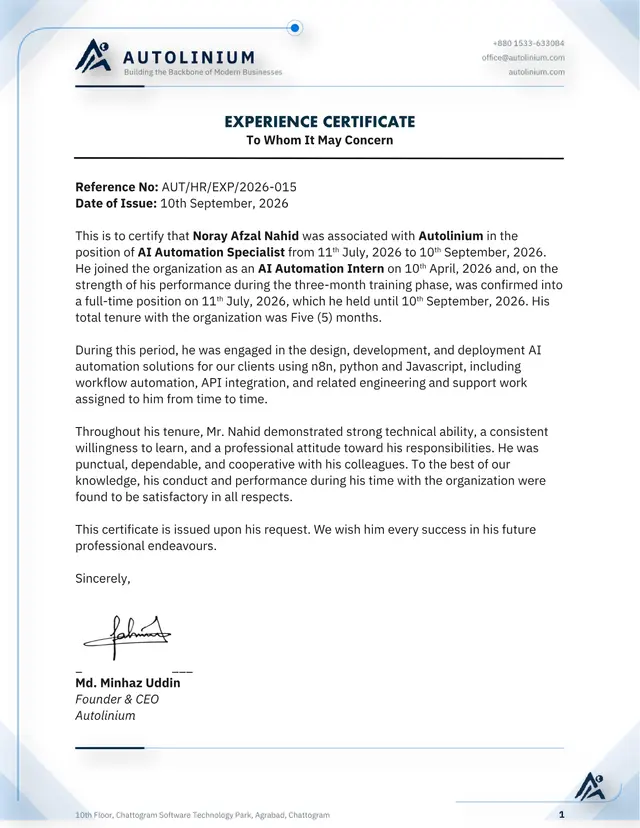
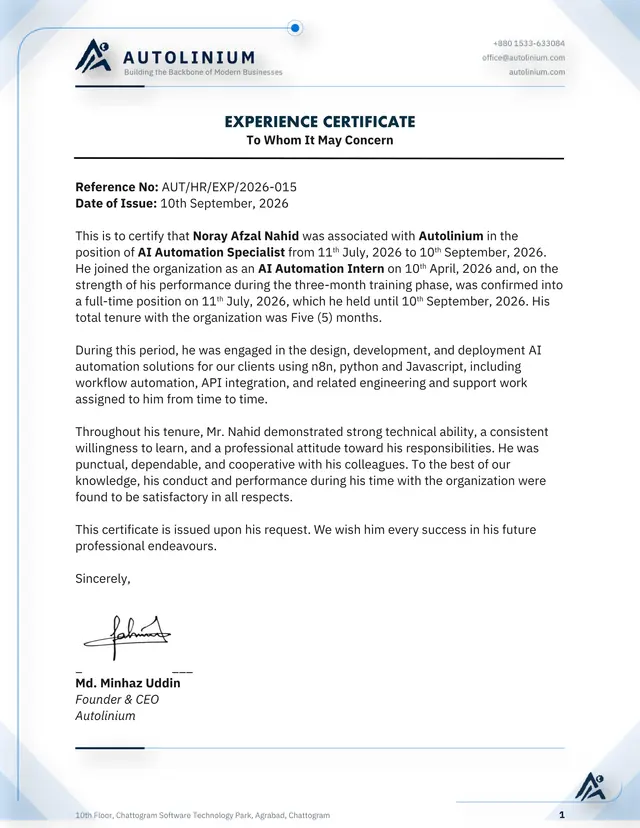
Fix the certificate viewer clipping its own header
The lightbox was a flex column holding a header row and then the image
directly. An image will not shrink inside a flex column — it takes its
intrinsic height — so a 2329px document forced the panel past max-h-[94vh] and
pushed the header off the top of the screen. Opening a certificate showed it
with its own title sliced in half.

The panel is now header / scrolling body / footer, with flex-1 min-h-0
overflow-auto on the body. Without min-h-0 a flex child cannot shrink below its
content, which is what made flex-1 useless here. overflow-auto on the image
itself did nothing; images do not scroll.

Adds a footer naming the issuer with an "Open full size" link, and re-renders
both certificates at 1800px and 2000px wide instead of 1400px so the small
print in a scanned document is readable. They load only when the lightbox opens.

Verified: panel 729px inside an 800px viewport, header visible, body
scrollable, image 1800x2329 rendering at 814px.

diff --git a/client/src/components/sections/Credentials.tsx b/client/src/components/sections/Credentials.tsx
@@ -189,40 +189,59 @@ export default function Credentials() {
             role="dialog"
             aria-modal="true"
             aria-label={`${open.title} from ${open.issuer}`}
-            className="fixed inset-0 z-[120] flex items-center justify-center p-4 sm:p-8"
+            className="fixed inset-0 z-[120] flex items-center justify-center p-3 sm:p-6"
           >
             <div
               className="absolute inset-0 bg-ground/95 backdrop-blur-md"
               onClick={() => setOpen(null)}
             />
+
             <motion.div
               initial={{ scale: 0.97, opacity: 0 }}
               animate={{ scale: 1, opacity: 1 }}
               exit={{ scale: 0.97, opacity: 0 }}
-              className="relative max-w-3xl w-full max-h-[90vh] flex flex-col"
+              className="relative w-full max-w-4xl max-h-[94vh] flex flex-col rounded-2xl border border-white/12 bg-surface overflow-hidden shadow-2xl"
             >
-              <div className="flex items-center justify-between gap-4 mb-4">
-                <div>
-                  <p className="font-display text-base font-bold text-fg">
+              <div className="shrink-0 flex items-start justify-between gap-4 p-4 sm:p-5 border-b border-white/10">
+                <div className="min-w-0">
+                  <p className="font-display text-base font-bold text-fg leading-tight">
                     {open.title}
                   </p>
-                  <p className="font-mono text-[11.5px] text-subtle mt-1">
+                  <p className="font-mono text-[11.5px] text-subtle mt-1.5 break-words">
                     {open.detail}
                   </p>
                 </div>
                 <button
                   onClick={() => setOpen(null)}
                   aria-label="Close"
-                  className="p-2 rounded-full text-body hover:text-fg hover:bg-white/5 transition-colors shrink-0"
+                  className="p-2 shrink-0 rounded-full text-body hover:text-fg hover:bg-white/5 transition-colors focus-visible:outline-2 focus-visible:outline-offset-2 focus-visible:outline-brand-bright"
                 >
                   <X size={20} />
                 </button>
               </div>
-              <img
-                src={open.full}
-                alt={`${open.title} issued by ${open.issuer}`}
-                className="w-full h-auto rounded-xl border border-white/10 bg-white overflow-y-auto"
-              />
+
+              {/* The document itself, on white, scrolling inside its own row. */}
+              <div className="flex-1 min-h-0 overflow-auto bg-white p-3 sm:p-5">
+                <img
+                  src={open.full}
+                  alt={`${open.title} issued by ${open.issuer}`}
+                  className="w-full h-auto mx-auto max-w-[860px] rounded-md"
+                />
+              </div>
+
+              <div className="shrink-0 flex flex-wrap items-center justify-between gap-3 p-4 sm:p-5 border-t border-white/10">
+                <p className="text-[12.5px] text-subtle">
+                  Issued by {open.issuer}
+                </p>
+                <a
+                  href={open.full}
+                  target="_blank"
+                  rel="noopener noreferrer"
+                  className="inline-flex items-center gap-2 px-4 py-2.5 rounded-lg bg-brand hover:bg-brand-bright text-ground text-[13px] font-semibold transition-colors focus-visible:outline-2 focus-visible:outline-offset-2 focus-visible:outline-brand-bright"
+                >
+                  Open full size <ExternalLink className="w-3.5 h-3.5" />
+                </a>
+              </div>
             </motion.div>
           </motion.div>
         )}

diff --git a/lessons.md b/lessons.md
@@ -741,3 +741,34 @@ rule is the length of the string, not the size of the type.
 **Lesson:** a treatment that reads as *styled* on a two-word label reads as
 *damaged* on a sentence. Check what the class is wrapping, not just how it looks
 in isolation.
+
+---
+
+## L33 — An image will not shrink inside a flex column
+**Severity: broke a section the whole site was rebuilt around. Status: FIXED 2026-09-07.**
+
+The certificate lightbox was a `flex flex-col max-h-[94vh]` panel holding a
+header row and then an `<img>`. An image in a flex column takes its intrinsic
+height and refuses to shrink, so a 2329px-tall document forced the panel far
+past 94vh and pushed the header off the top of the screen. The owner saw a
+certificate with its own title sliced in half.
+
+The pattern that works, for any scrollable-document panel:
+
+```
+panel   flex flex-col max-h-[94vh] overflow-hidden
+header  shrink-0
+body    flex-1 min-h-0 overflow-auto     <- min-h-0 is the part people miss
+footer  shrink-0
+```
+
+Without `min-h-0`, a flex child's minimum size is its content, and `flex-1`
+cannot shrink it below that. With it, the row takes the space left over and
+scrolls its own contents.
+
+The certificates were also re-rendered at 1800px and 2000px wide instead of
+1400px, and a footer link opens the full-size file, so the small print in a
+scanned document is actually readable.
+
+**Lesson:** `overflow-auto` on the image does nothing — images do not scroll.
+The scrolling belongs on a wrapper, and that wrapper needs `min-h-0`.

diff --git a/updates.md b/updates.md
@@ -5,6 +5,28 @@
 
 ---
 
+## 2026-09-07 (session 14) — Certificate viewer
+
+The owner opened the experience certificate and its own header was sliced off
+the top of the screen.
+
+**Cause.** The panel was a flex column holding a header and then the image
+directly. An image will not shrink inside a flex column, so a 2329px document
+forced the panel past its `max-h-[94vh]` and pushed the header out of view
+(`lessons.md` L33).
+
+- The panel is now header / scrolling body / footer, with `flex-1 min-h-0
+  overflow-auto` on the body — the document scrolls in its own row and the
+  header and footer stay put.
+- A footer bar names the issuer and links "Open full size".
+- Certificates re-rendered at 1800px and 2000px wide (from 1400px) so the small
+  print holds up when opened: 215 kB and 116 kB, loaded only when the lightbox
+  opens.
+
+Verified: panel 729px inside an 800px viewport, header visible, body scrollable,
+image 1800x2329 rendering at 814px.
+
+---
 ## 2026-09-07 (session 13) — The stat captions
 
 The owner sent a crop of "GETVOICIUM, ARCHITECTURE TO DEPLOYMENT" — a sentence
@@ -517,6 +539,7 @@ them.
 - `cb546f6` Vercel install fixed by removing a missing pnpm patch reference
 - `7477a08` Static build replaced with the real source project
 - `a633b17` Initial portfolio deploy
+
 
 
 
